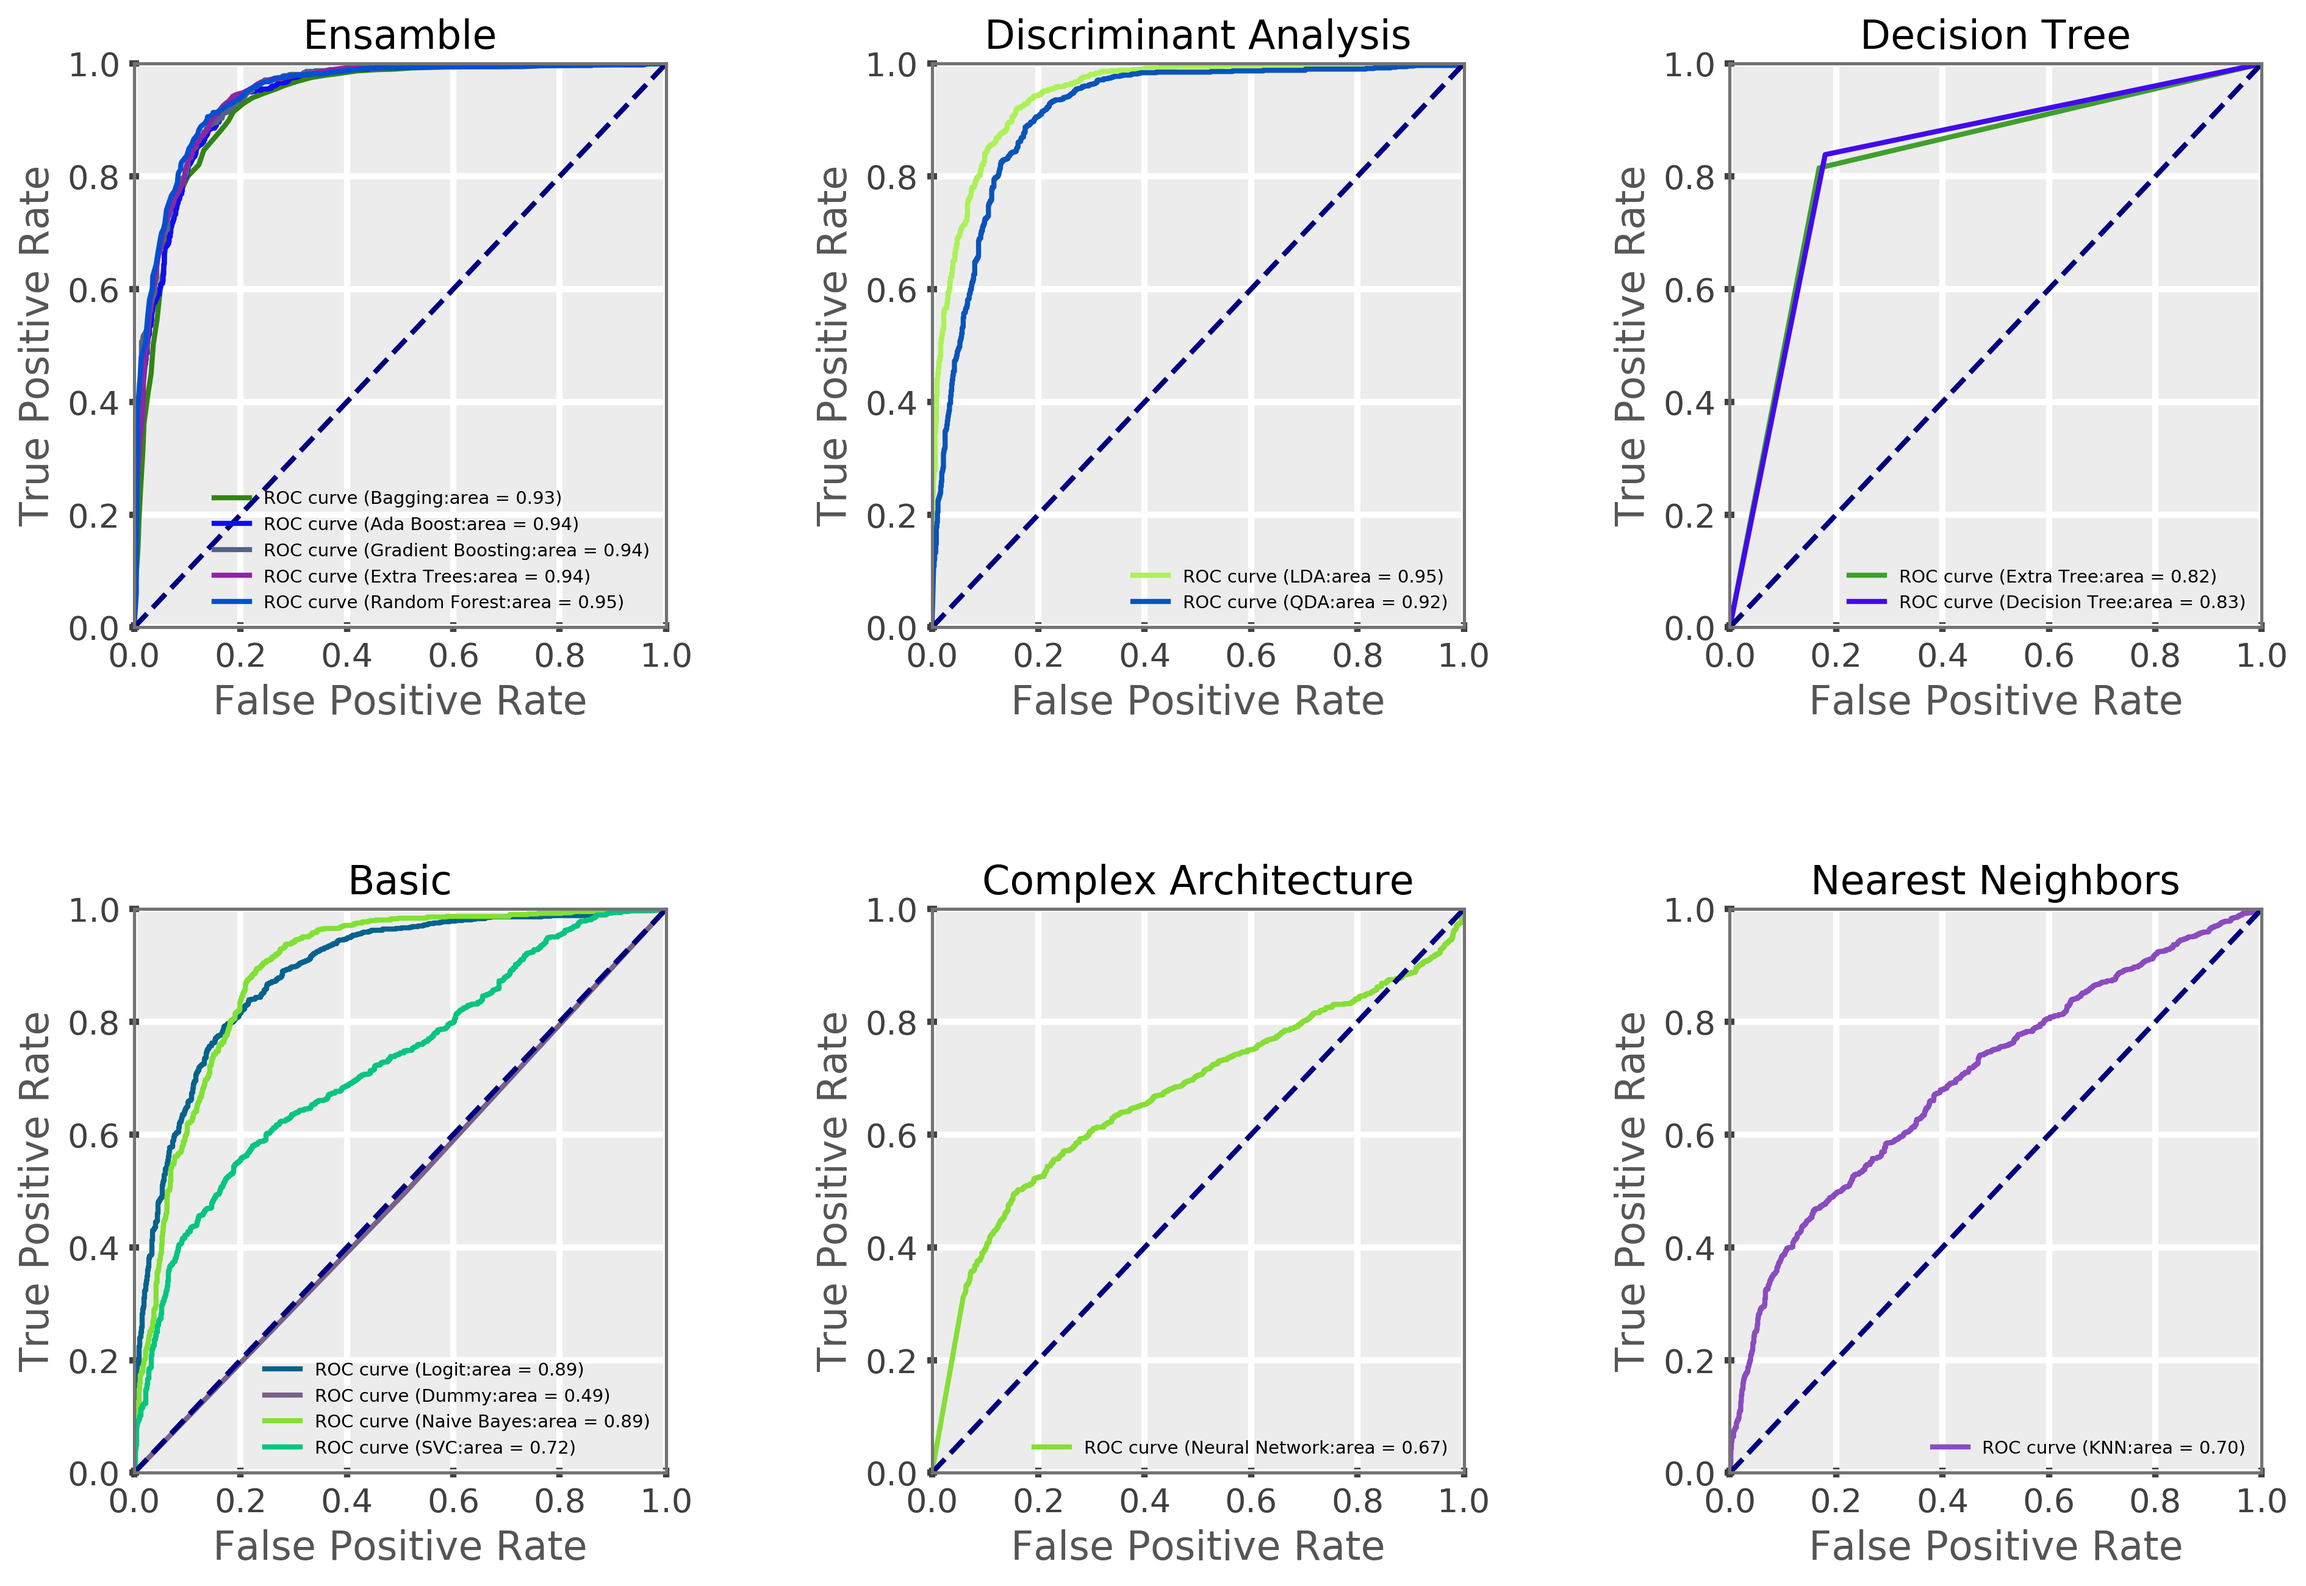
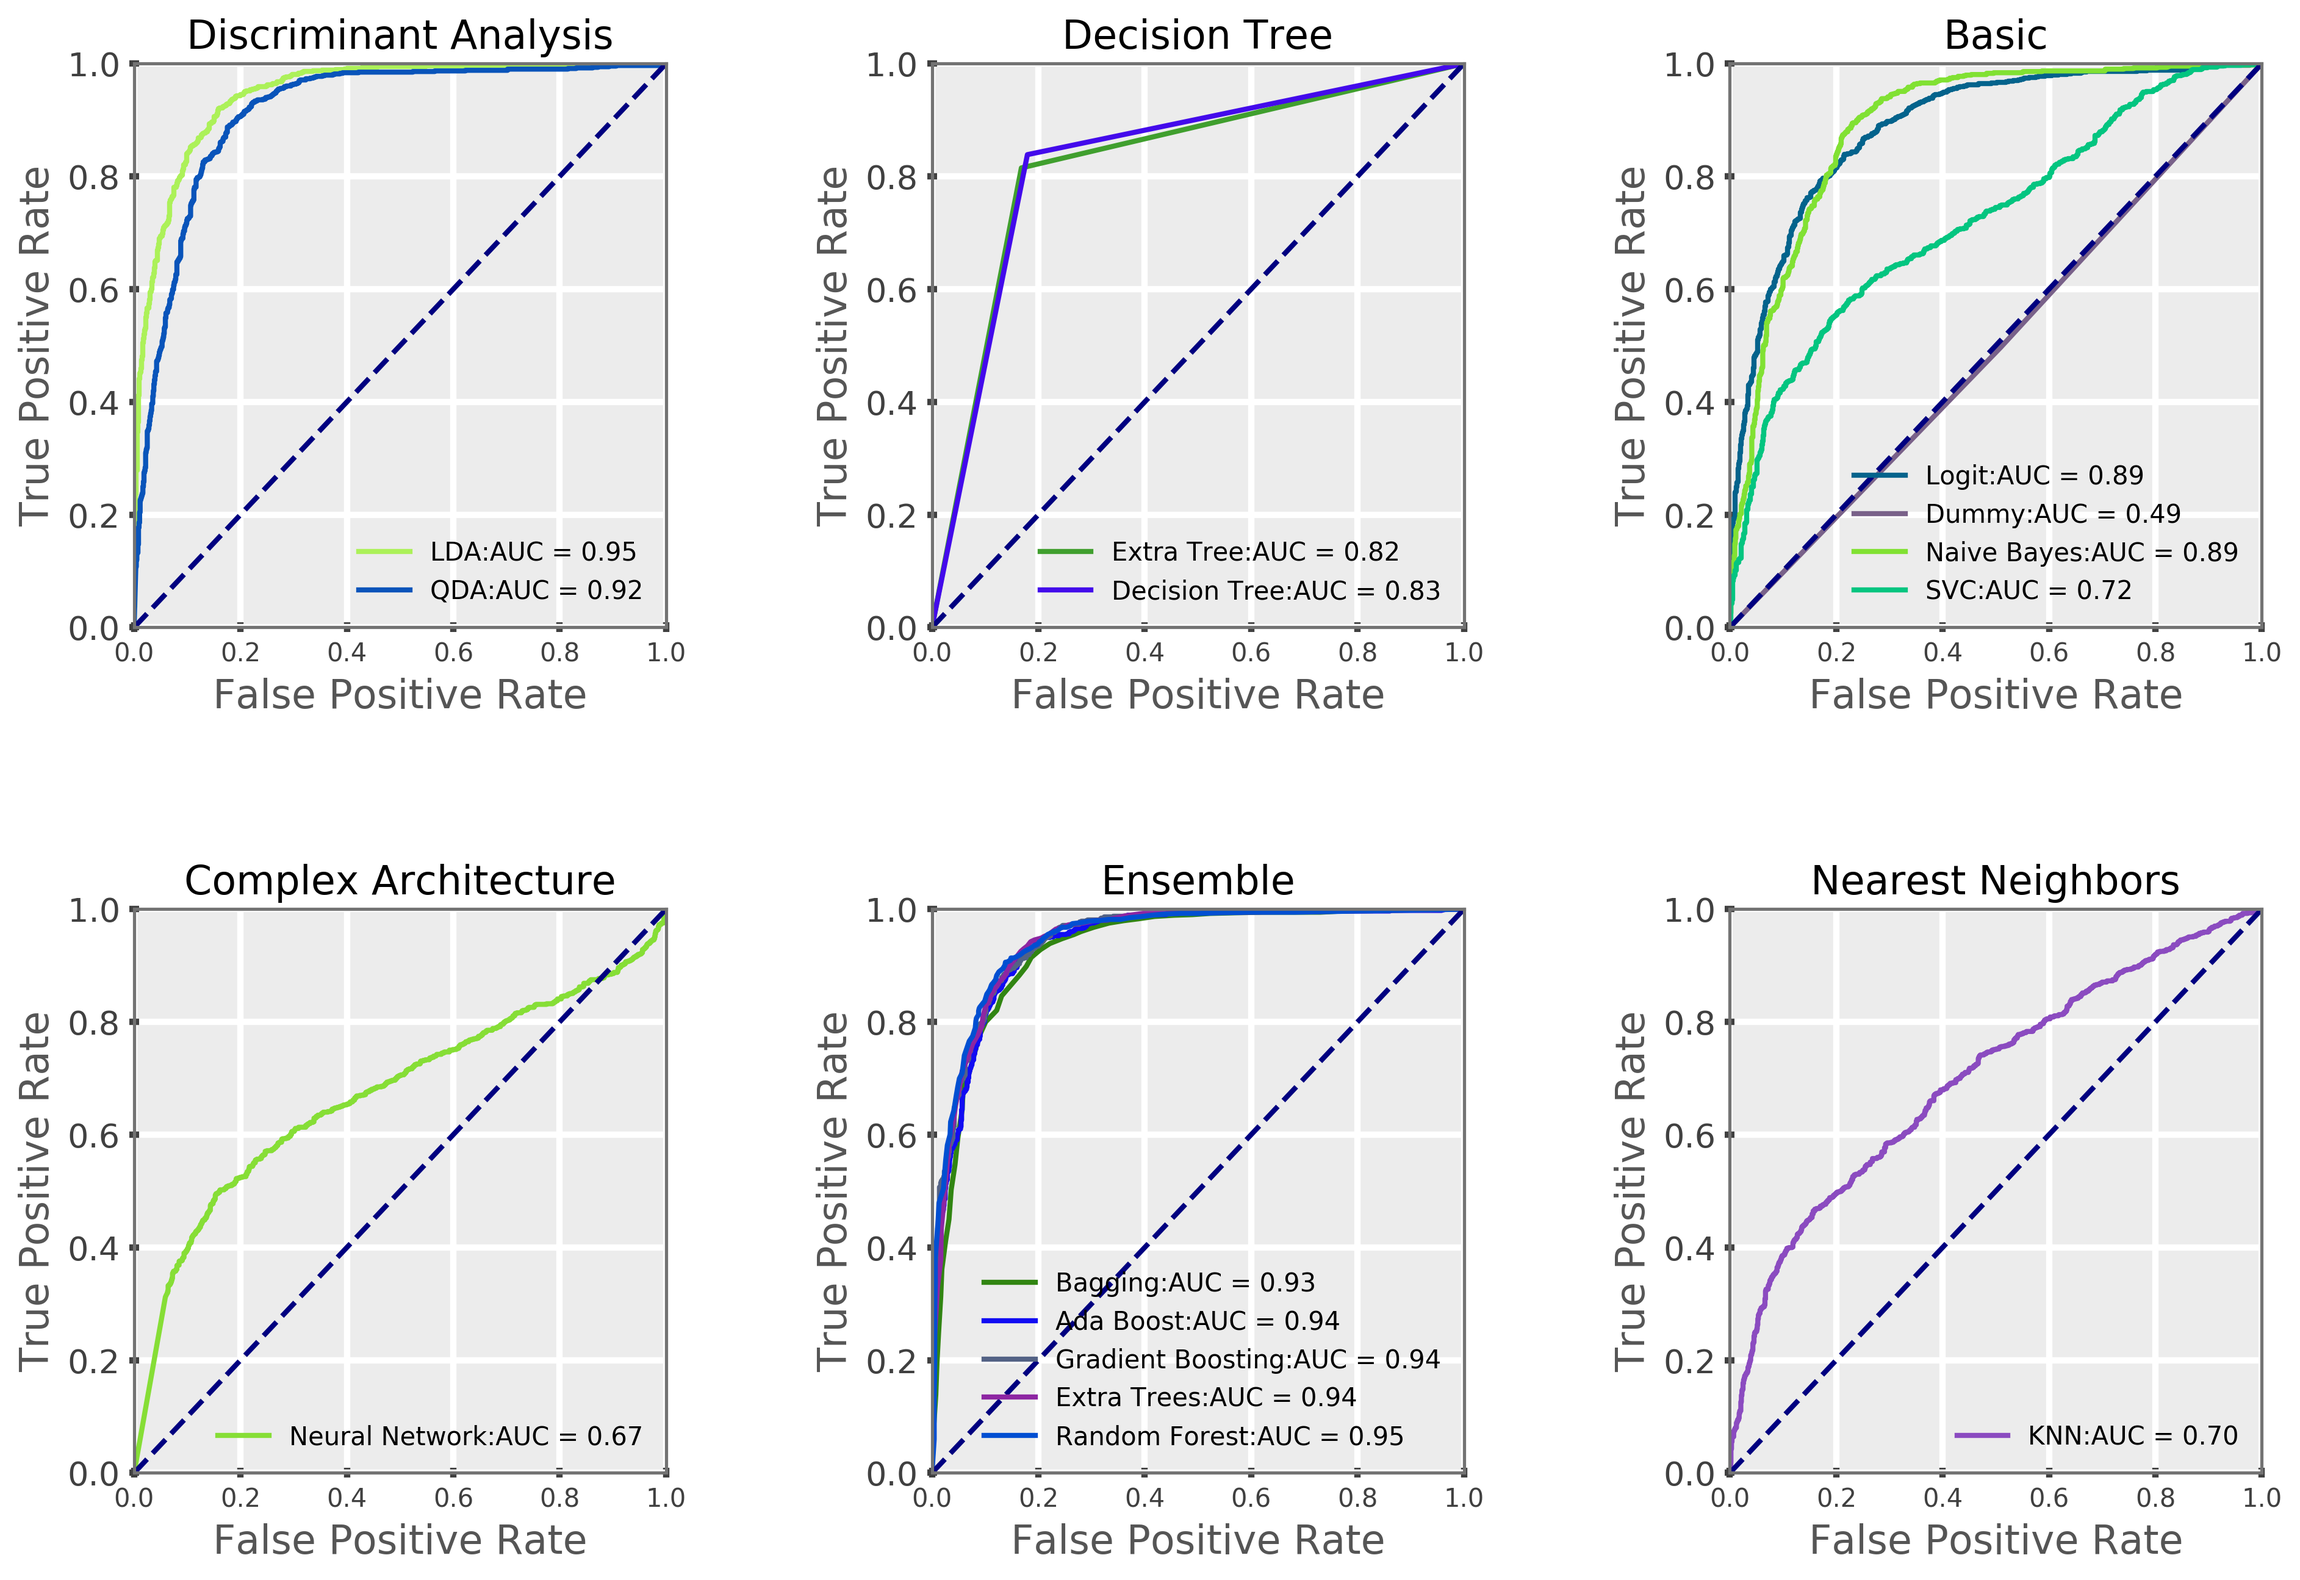
mode

diff --git a/util.py b/util.py
@@ -97,7 +97,7 @@ def get_classifiers():
     etsc = ExtraTreesClassifier(n_estimators=50,criterion="entropy")
     gb = GradientBoostingClassifier(max_depth=5,random_state=0)
     rfc = RandomForestClassifier(n_estimators=100)
-    C3 = {"name":"Ensamble","methods":[(ada, "Ada Boost"),(bg,"Bagging"),(etsc, "Extra Trees"),
+    C3 = {"name":"Ensemble","methods":[(ada, "Ada Boost"),(bg,"Bagging"),(etsc, "Extra Trees"),
         (gb, "Gradient Boosting"), (rfc, "Random Forest")]}
 
     # discriminant analysis & GPC
@@ -134,7 +134,7 @@ def plot_deterministic_roc_curves(roc_eval_details, tag):
         clf_type = roc_eval_details[gname]
         for name in clf_type.keys():
             roc = roc_eval_details[gname][name]
-            ax.plot(roc["fpr"], roc["tpr"], color=roc["c"], lw = lw, label="ROC curve (%s:area = %0.2f)" % (name,roc["roc_auc"]))
+            ax.plot(roc["fpr"], roc["tpr"], color=roc["c"], lw = lw, label="%s:AUC = %0.2f" % (name,roc["roc_auc"]))
             pass
         ax.plot([0, 1], [0, 1], color="navy", lw=lw, linestyle="--")
         ax.set_xlim([0.0, 1.0])
@@ -142,7 +142,7 @@ def plot_deterministic_roc_curves(roc_eval_details, tag):
         ax.set_title(gname)
         ax.set_xlabel("False Positive Rate")
         ax.set_ylabel("True Positive Rate")
-        ax.legend(loc="lower right",prop={"size": 7})
+        ax.legend(loc="lower right",prop={"size": 10})
         I = I + 1
         pass
     fig.savefig("out/deterministinc_forecast_models_roc_curves_%s.png"%tag,bbox_inches="tight")
